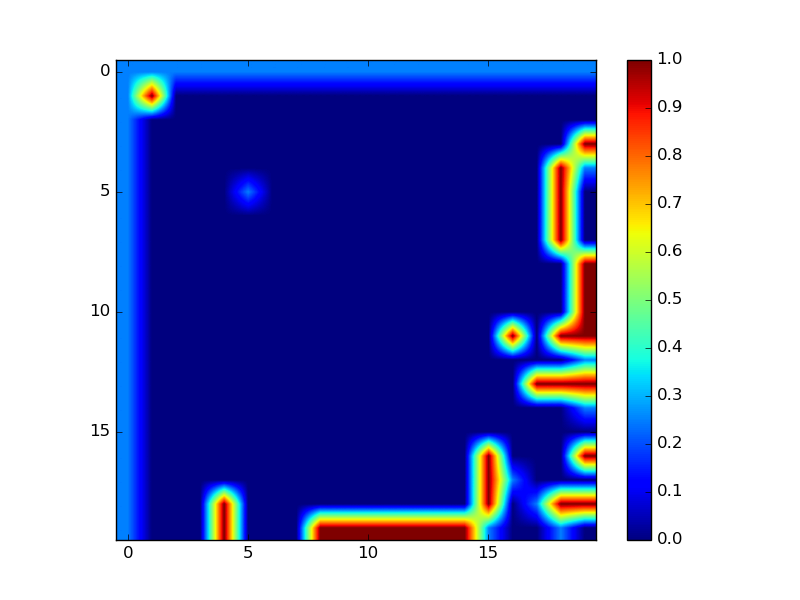
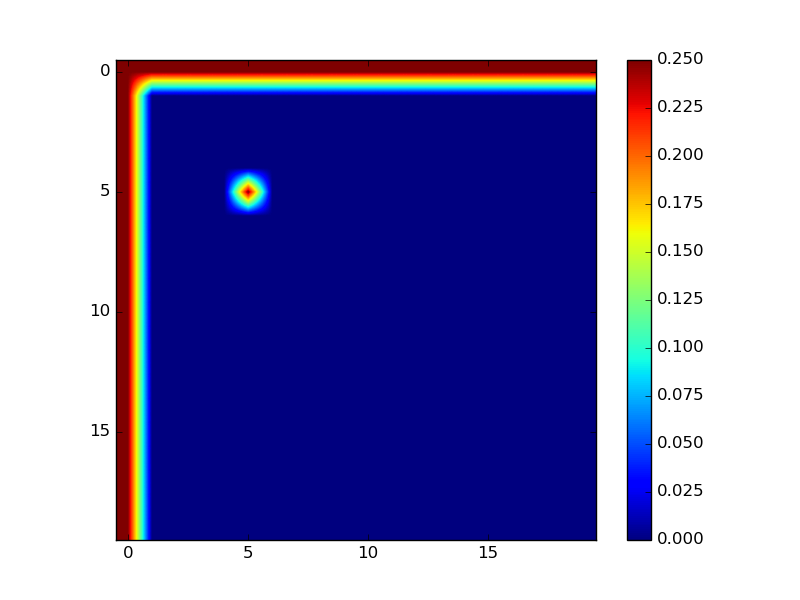
Added the possibility to remove noise

diff --git a/Mapping/LiSim/sim.py b/Mapping/LiSim/sim.py
@@ -54,7 +54,7 @@ class Lidar:
         noise = np.random.normal(esp,dev,clean_data.shape)
         return noise+clean_data
     
-    def simulate(self, show=False, uPos=2, uDist=2, uTheta=1.25):
+    def simulate(self,noise=True, show=False, uPos=2, uDist=2, uTheta=1.25):
         '''Simulates data from one complete lidar rotation'''
         data=[]
         if show == True:
@@ -72,10 +72,10 @@ class Lidar:
                 current_ray += self.ray_step
 
         data = np.array(data)
-
-        #Add noise to the data
-        data[:,0] = self._noise(data[:,0], uDist)
-        data[:,1] = self._noise(data[:,1], uTheta)
+        if noise == True:
+            #Add noise to the data
+            data[:,0] = self._noise(data[:,0], uDist)
+            data[:,1] = self._noise(data[:,1], uTheta)
 
 
         return data

diff --git a/Mapping/Map.py b/Mapping/Map.py
@@ -29,7 +29,7 @@ lidar.make_path() #make directory to save the examples
 path = lidar.path 
 
 
-measure = lidar.simulate(show=False)
+measure = lidar.simulate(show=False,noise=False)
 
 
 for i in range(len(measure)):
